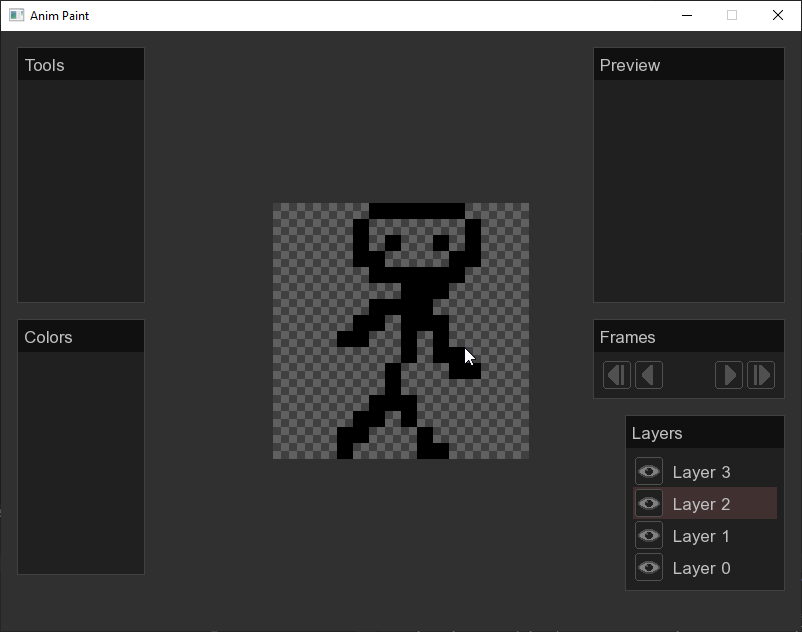
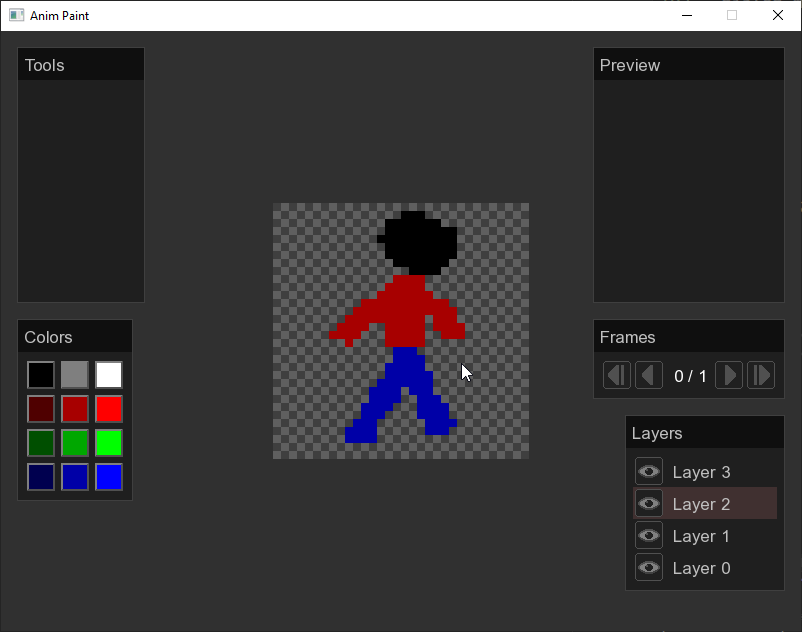
added colors to the palette and now can draw use different colors

diff --git a/Anim-Paint/ColorsDialog.hpp b/Anim-Paint/ColorsDialog.hpp
@@ -1,0 +1,194 @@
+#ifndef ColorsDialog_hpp
+#define ColorsDialog_hpp
+
+enum class ColorBoxState { Idle, Hover, Pressed };
+
+class ColorBox : public ElementGUI {
+public:
+	sf::Sprite frame;
+	sf::Color color;
+	sf::RectangleShape rect;
+	ColorBoxState state;
+	std::function<void()> onclick_func;
+	sf::Time clickTime;
+
+	ColorBox(sf::Color color) {
+		this->color = color;
+
+		frame = sf::Sprite(*getTexture(L"tex\\colors\\frame.png")->texture);
+		
+		rect = sf::RectangleShape(sf::Vector2f(24, 24));
+		rect.setFillColor(this->color);
+
+		state = ColorBoxState::Idle;
+		onclick_func = { };
+		clickTime = currentTime;
+		
+
+	}
+
+	~ColorBox() { }
+
+	void setPosition(sf::Vector2f position) {
+		frame.setPosition(position);
+		rect.setPosition(position + sf::Vector2f(4, 4));
+	}
+
+	void unclick() {
+		state = ColorBoxState::Idle;
+		frame.setTexture(*getTexture(L"tex\\colors\\frame.png")->texture);
+	}
+
+	void hover() {
+		state = ColorBoxState::Hover;
+		frame.setTexture(*getTexture(L"tex\\colors\\frame_hover.png")->texture);
+
+	}
+
+	void click() {
+		state = ColorBoxState::Pressed;
+		frame.setTexture(*getTexture(L"tex\\colors\\frame_hover.png")->texture);
+		clickTime = currentTime;
+	}
+
+	void cursorHover() {
+		if (frame.getGlobalBounds().contains(worldMousePosition)) {
+			ElementGUI_hovered = this;
+		}
+	}
+
+	void handleEvent(sf::Event& event) {
+		if (frame.getGlobalBounds().contains(worldMousePosition)) {
+			if (event.type == sf::Event::MouseButtonPressed && event.mouseButton.button == sf::Mouse::Left) {
+				ElementGUI_pressed = this;
+			}
+			else if (event.type == sf::Event::MouseButtonReleased && event.mouseButton.button == sf::Mouse::Left) {
+				if (ElementGUI_pressed == this) {
+					click();
+				}
+			}
+
+		}
+	}
+
+	void update() {
+
+		if (state == ColorBoxState::Pressed) {
+			if ((currentTime - clickTime).asSeconds() > 0.05f) {
+				if (onclick_func) {
+					onclick_func();
+				}
+				ElementGUI_pressed = nullptr;
+				unclick();
+			}
+		}
+		else if (ElementGUI_hovered == this) {
+			hover();
+		}
+		else
+			unclick();
+	}
+
+	void draw() {
+		window->draw(frame);
+		window->draw(rect);
+	}
+};
+
+class ColorsDialog : public Dialog {
+public:
+
+	std::vector < ColorBox* > colors;
+	int current_color_id;
+
+	ColorsDialog(std::wstring title, sf::Vector2f size, sf::Vector2f position = sf::Vector2f(0, 0)) : Dialog(title, size, position) {
+
+		colors.clear();
+
+		// black - grey - white
+		colors.push_back(new ColorBox(sf::Color(0, 0, 0)));
+		colors.push_back(new ColorBox(sf::Color(127, 127, 127)));
+		colors.push_back(new ColorBox(sf::Color(255, 255, 255)));
+
+		// red
+		colors.push_back(new ColorBox(sf::Color(79, 0, 0)));
+		colors.push_back(new ColorBox(sf::Color(167, 0, 0)));
+		colors.push_back(new ColorBox(sf::Color(255, 0, 0)));
+
+		// green
+		colors.push_back(new ColorBox(sf::Color(0, 79, 0)));
+		colors.push_back(new ColorBox(sf::Color(0, 167, 0)));
+		colors.push_back(new ColorBox(sf::Color(0, 255, 0)));
+
+		// blue
+		colors.push_back(new ColorBox(sf::Color(0, 0, 79)));
+		colors.push_back(new ColorBox(sf::Color(0, 0, 167)));
+		colors.push_back(new ColorBox(sf::Color(0, 0, 255)));
+
+		current_color_id = 0;
+		for (int i = 0; i < colors.size(); i++) {
+			colors[i]->onclick_func = [this, i]() {
+				current_color_id = i;
+				};
+		}
+
+		setPosition(position);
+	}
+
+	~ColorsDialog() { }
+
+	sf::Color getCurrentColor() {
+		return colors[current_color_id]->color;
+	}
+
+	void setPosition(sf::Vector2f position) {
+		Dialog::setPosition(position);
+
+		
+
+		sf::Vector2f pos;
+		for (int i = 0; i < colors.size(); i++) {
+			pos.x = position.x + dialog_padding + (colors_dialog_margin) * (i%3) + 32 * (i%3);
+			pos.y = position.y + 32 + dialog_padding + (colors_dialog_margin) * (i/3) + 32 * (i/3);
+
+			colors[i]->setPosition(pos);
+		}
+
+		std::cout << colors.back()->rect.getGlobalBounds().left + colors.back()->rect.getGlobalBounds().width << "\n";
+	}
+
+	void cursorHover() {
+		Dialog::cursorHover();
+
+		for (auto& color : colors)
+			color->cursorHover();
+
+	}
+
+	void handleEvent(sf::Event& event) {
+		Dialog::handleEvent(event);
+		for (auto& color : colors)
+			color->handleEvent(event);
+
+	}
+
+	void update() {
+		Dialog::update();
+		for (auto& color : colors)
+			color->update();
+	}
+
+	void draw() {
+		Dialog::draw();
+
+		for (auto& color : colors) {
+			color->draw();
+		}
+
+	}
+
+};
+
+ColorsDialog* colors_dialog = nullptr;
+
+#endif

diff --git a/Anim-Paint/Theme.hpp b/Anim-Paint/Theme.hpp
@@ -12,11 +12,12 @@ sf::Color dialog_rect_color;
 sf::Color dialog_title_rect_color;
 sf::Color dialog_content_rect_color;
 
+sf::Color normal_text_color;
+
 sf::Color canvas_color1;
 sf::Color canvas_color2;
 
-
-sf::Color normal_text_color;
+int colors_dialog_margin;
 
 void loadTheme() {
 
@@ -26,14 +27,16 @@ void loadTheme() {
 	dialog_padding = 8;
 	dialog_title_font_size = 17;
 	dialog_border_width = 1;
-	dialog_title_text_color = sf::Color(192, 192, 192);
-	dialog_rect_color = sf::Color(64, 64, 64);
-	dialog_title_rect_color = sf::Color(16, 16, 16);
-	dialog_content_rect_color = sf::Color(32, 32, 32);
+	dialog_title_text_color = sf::Color(191, 191, 191);
+	dialog_rect_color = sf::Color(63, 63, 63);
+	dialog_title_rect_color = sf::Color(15, 15, 15);
+	dialog_content_rect_color = sf::Color(31, 31, 31);
 
-	normal_text_color = sf::Color(192, 192, 192);
+	normal_text_color = sf::Color(191, 191, 191);
 
-	canvas_color1 = sf::Color(64, 64, 64);
-	canvas_color2 = sf::Color(96, 96, 96);
+	canvas_color1 = sf::Color(63, 63, 63);
+	canvas_color2 = sf::Color(95, 95, 95);
+
+	colors_dialog_margin = 2;
 }
 #endif

diff --git a/Anim-Paint/main.cpp b/Anim-Paint/main.cpp
@@ -16,6 +16,7 @@
 #include "Layer.hpp"
 #include "Frame.hpp"
 
+#include "ColorsDialog.hpp"
 #include "FramesDialog.hpp"
 #include "LayersDialog.hpp"
 
@@ -38,7 +39,11 @@ void createDialogs() {
 	dialogs.push_back(layers_dialog);
 
 	dialogs.push_back(new Dialog(L"Tools", sf::Vector2f(128, 256), sf::Vector2f(dialog_margin, dialog_margin)));
-	dialogs.push_back(new Dialog(L"Colors", sf::Vector2f(128, 256), dialogs.back()->getPosition() + sf::Vector2f(0, dialogs.back()->getSize().y + dialog_margin)));
+	
+	colors_dialog = new ColorsDialog(L"Colors",
+		sf::Vector2f(116, 182),
+		dialogs.back()->getPosition() + sf::Vector2f(0, dialogs.back()->getSize().y + dialog_margin));
+	dialogs.push_back(colors_dialog);
 
 }
 

diff --git a/Anim-Paint/Canvas.hpp b/Anim-Paint/Canvas.hpp
@@ -132,11 +132,11 @@ public:
 			if (event.type == sf::Event::MouseButtonPressed && event.mouseButton.button == sf::Mouse::Left) {
 				ElementGUI_pressed = this;
 
-				setPixel(worldMousePosition, sf::Color::Black);
+				setPixel(worldMousePosition, colors_dialog->getCurrentColor());
 			}
 
 			if (event.type == sf::Event::MouseMoved && sf::Mouse::isButtonPressed(sf::Mouse::Left)) {
-				setPixel(worldMousePosition, sf::Color::Black);
+				setPixel(worldMousePosition, colors_dialog->getCurrentColor());
 			}
 
 			if (event.type == sf::Event::MouseButtonPressed && event.mouseButton.button == sf::Mouse::Middle) {

diff --git a/Anim-Paint/Textures.hpp b/Anim-Paint/Textures.hpp
@@ -51,6 +51,10 @@ void loadTextures() {
 
 	loadTexture(L"tex\\layers\\visible_hover.png");
 	loadTexture(L"tex\\layers\\unvisible_hover.png");
+
+	// dialog - colors
+	loadTexture(L"tex\\colors\\frame.png");
+	loadTexture(L"tex\\colors\\frame_hover.png");
 }
 
 #endif

diff --git a/Anim-Paint/Dialog.hpp b/Anim-Paint/Dialog.hpp
@@ -40,6 +40,10 @@ public:
 		return dialog_rect.getPosition();
 	}
 
+	sf::Vector2f setSize(sf::Vector2f size) {
+	
+	}
+
 	sf::Vector2f getSize() {
 		return dialog_rect.getSize();
 	}
